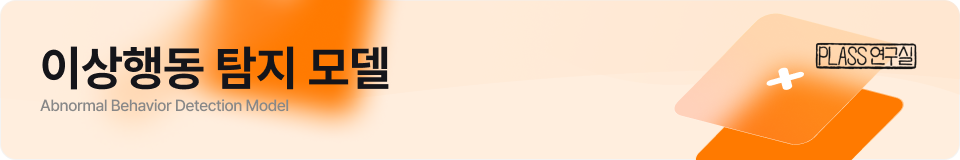
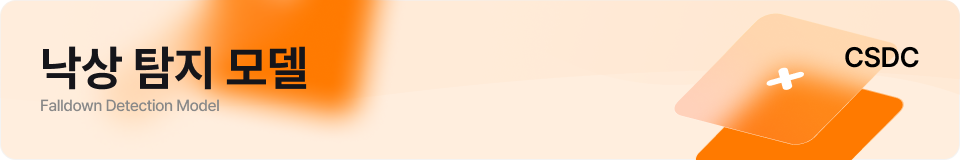
Chore: Update README

diff --git a/README.md b/README.md
@@ -1,7 +1,7 @@
 ![thumbnail](./resource/thumb.png)
 
-> 릴리즈 버전 [Release v1.0](https://github.com/DGU-ITRC/PLASS_Abnormal/releases/tag/v1.6)
+> 릴리즈 버전 [Release v1.0](https://github.com/DGU-ITRC/CSDC_Falldown/releases/tag/v1.0)
 
-> 학습된 가중치 다운로드 [Checkpoint](https://github.com/DGU-ITRC/PLASS_Abnormal/releases/tag/checkpoint)
+> 학습된 가중치 다운로드 [Checkpoint](https://github.com/DGU-ITRC/CSDC_Falldown/releases/tag/checkpoint)
 
 TBU
